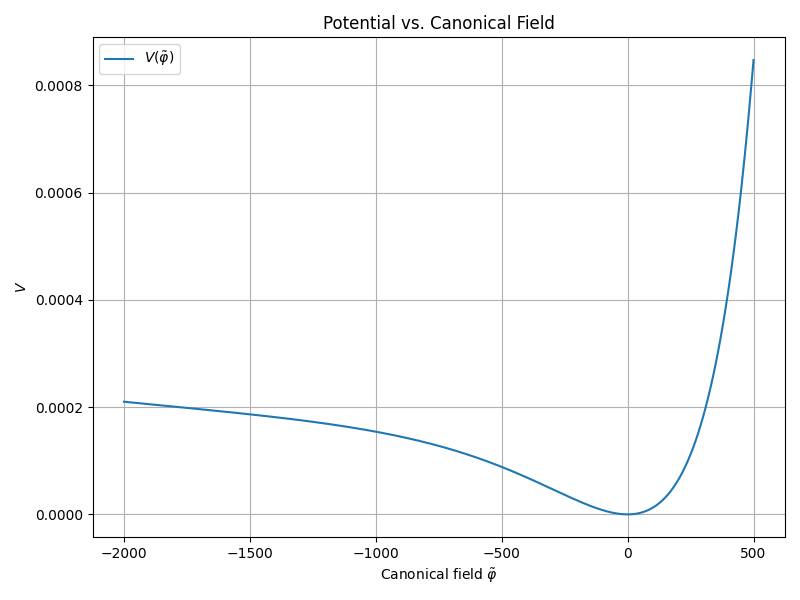
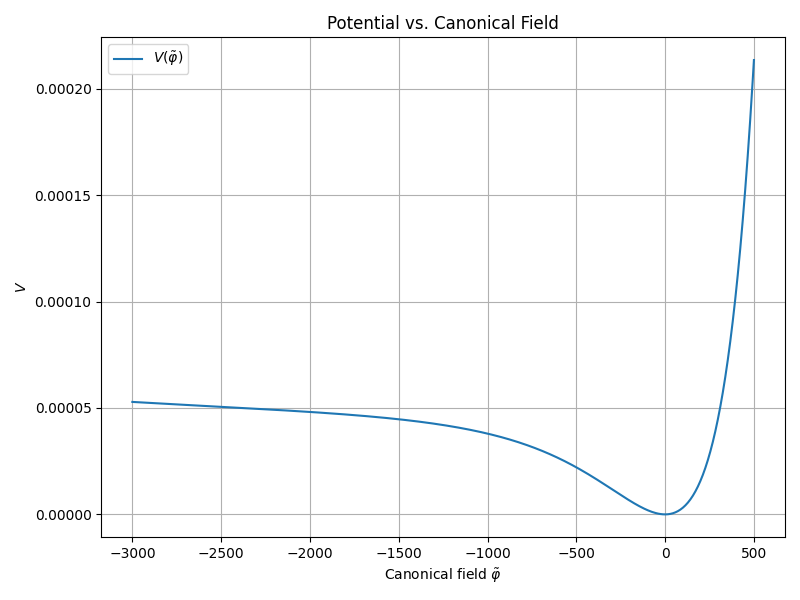
found plateau inflaltion values !!!!

diff --git a/Python/Potential Solver for noncanonical action.py b/Python/Potential Solver for noncanonical action.py
@@ -9,7 +9,7 @@ m = 1             # mass of inflaton
 M = 20            # Planck mass
 Mp = sqrt(2)*M   # Actual Planck mass (lol)
 phi0 = 30        # non-propagating field 
-gamma = 50             # model parameter gamma
+gamma = 100             # model parameter gamma
 alpha = -50            # model parameter alpha
 beta = 0.1             # model parameter beta
 D = np.sqrt(gamma**2 - 4*alpha*beta) 
@@ -56,7 +56,7 @@ def V(phi):
 phi_of_tilde = interp1d(tilde_vals, phi_vals, kind='cubic', fill_value="extrapolate")
 
 # Specify the range for the canonical field you want to plot:
-tilde_start = -2000 # lower limit for canonical field
+tilde_start = -3000 # lower limit for canonical field
 tilde_end   = 500  # upper limit for canonical field
 
 if not np.all(np.diff(tilde_vals) > 0):
